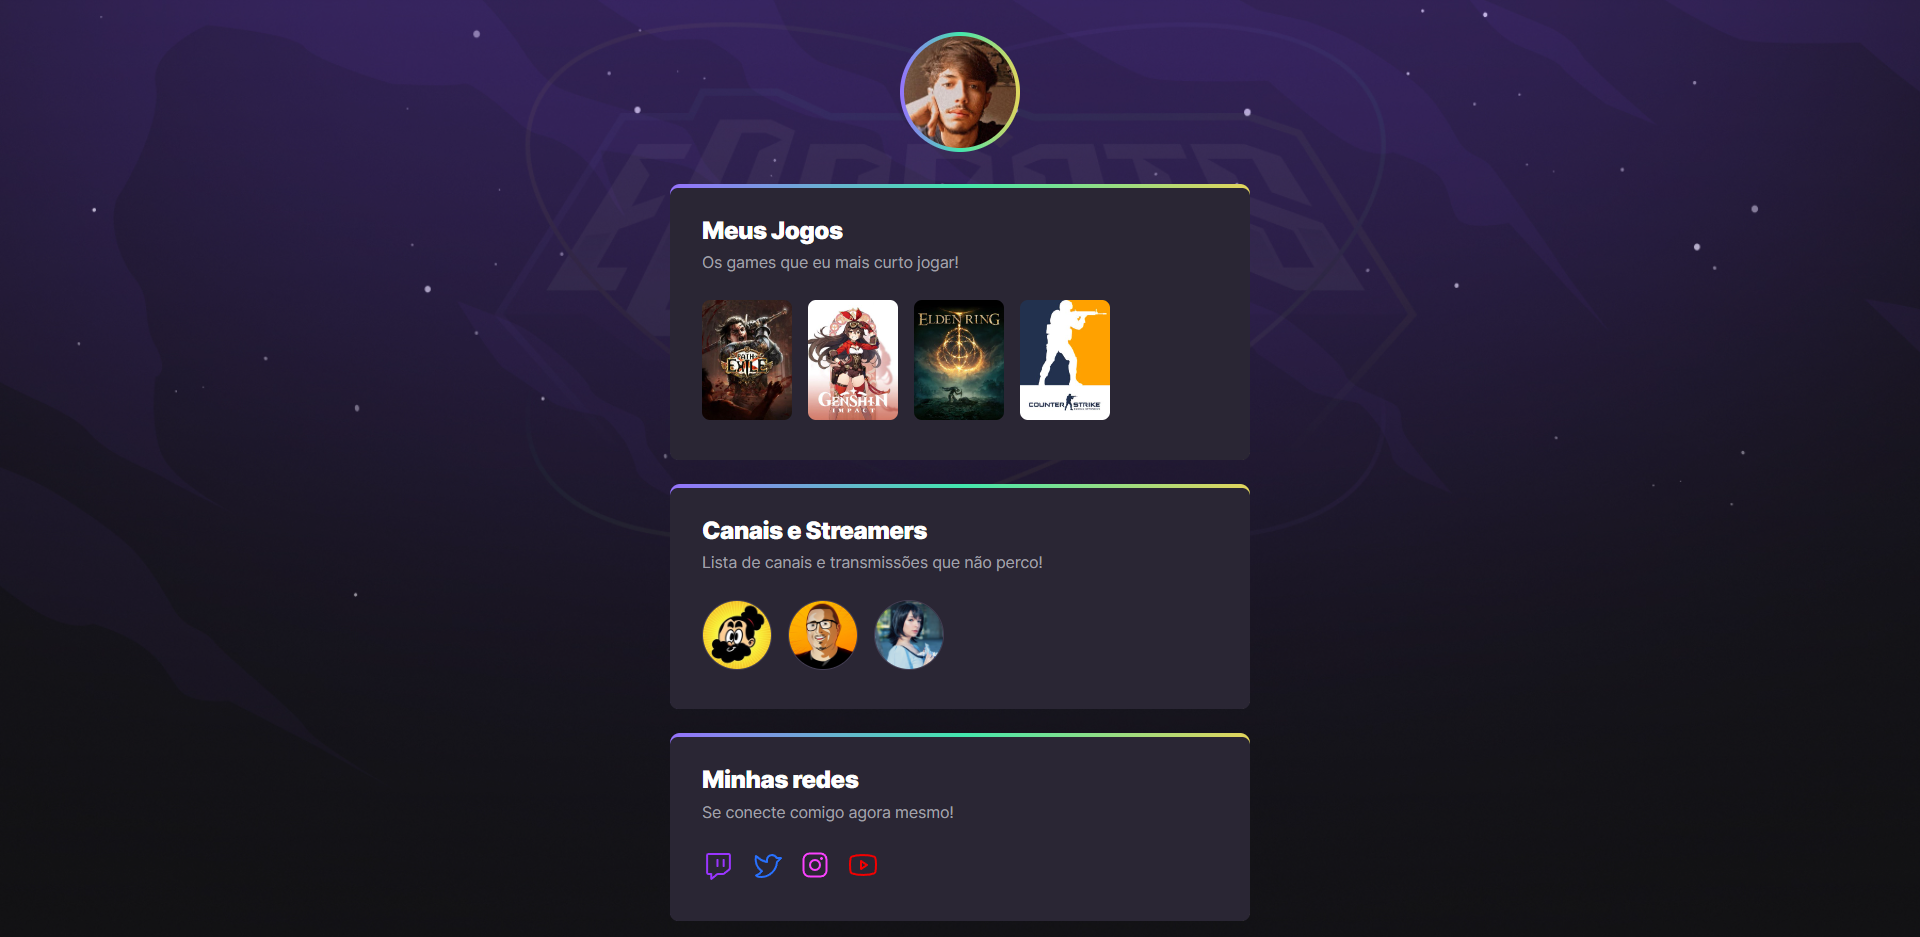
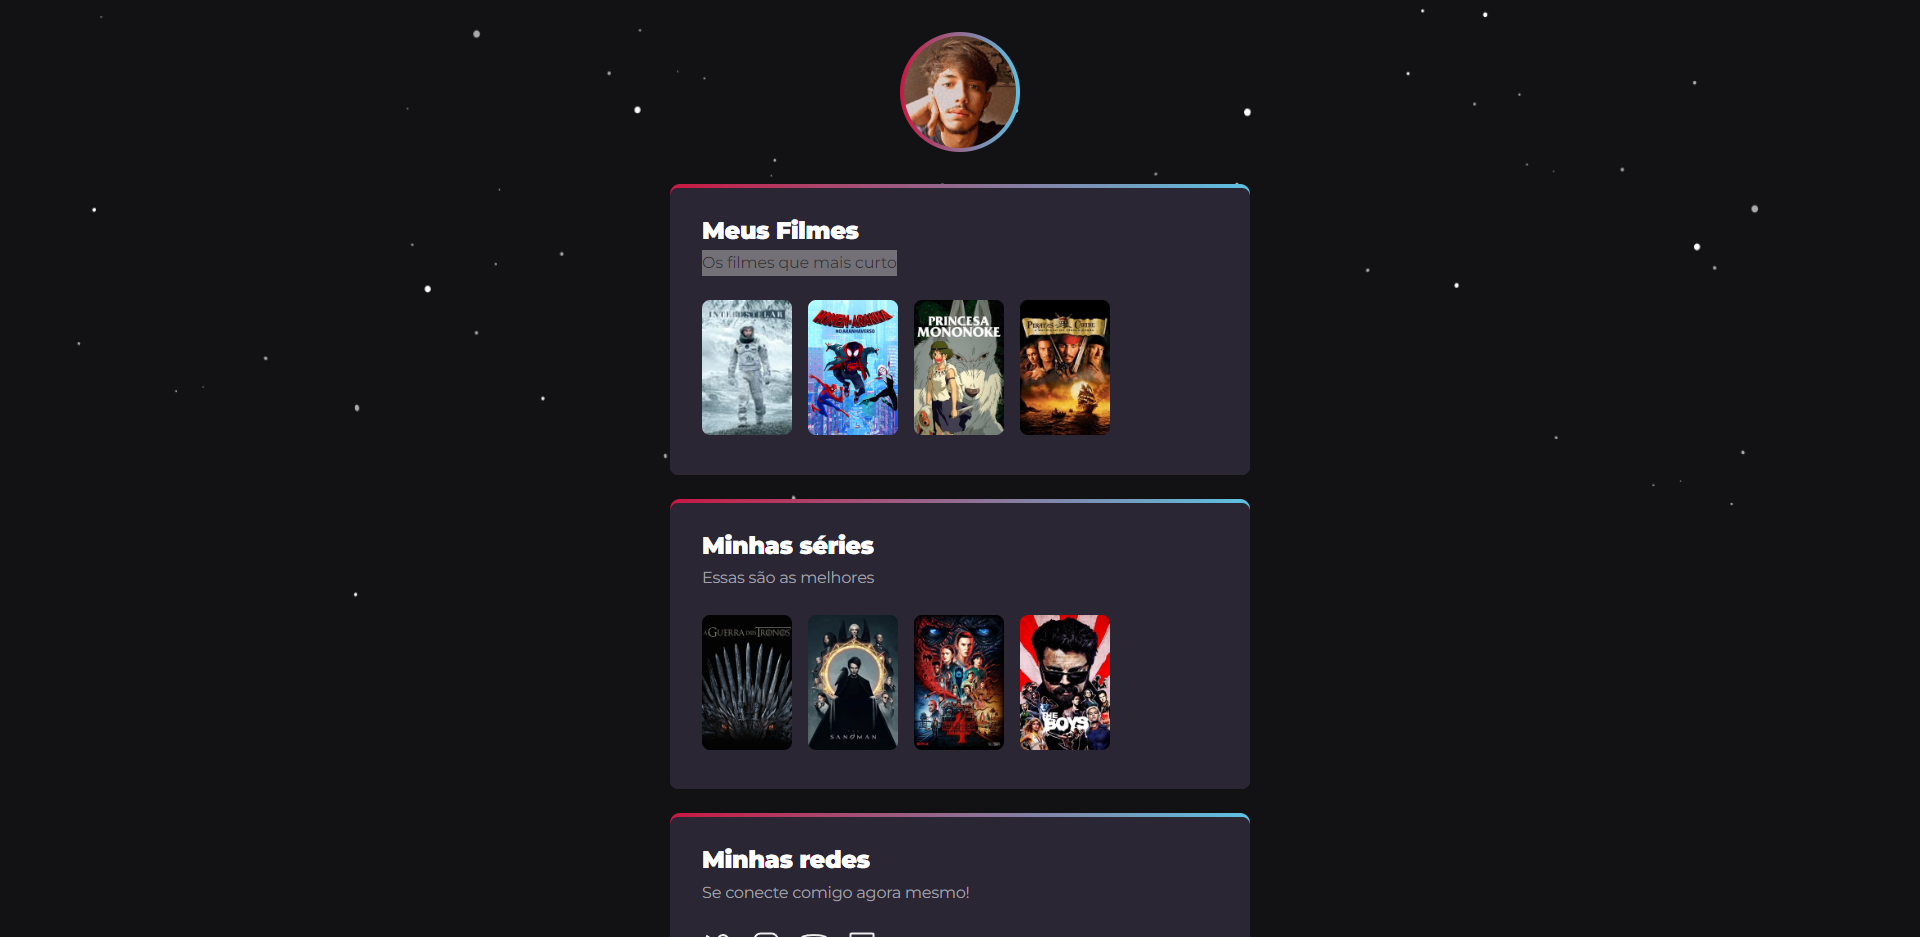
edit readme

diff --git a/README.md b/README.md
@@ -1,4 +1,4 @@
-# NLW eSports
+# NLW Movies 
 
 ![preview](./.github/preview.png)
 
@@ -6,7 +6,7 @@
 
 Projeto construido no evento Next Level Week da rocketseat.
 
-[🔗Clique aqui para acessar](https://aarthx.github.io/nlw-esports-explorer/)
+[🔗Clique aqui para acessar](https://aarthx.github.io/nlw-movies-explorer/)
 
 ##  🛠Tecnologias
 
